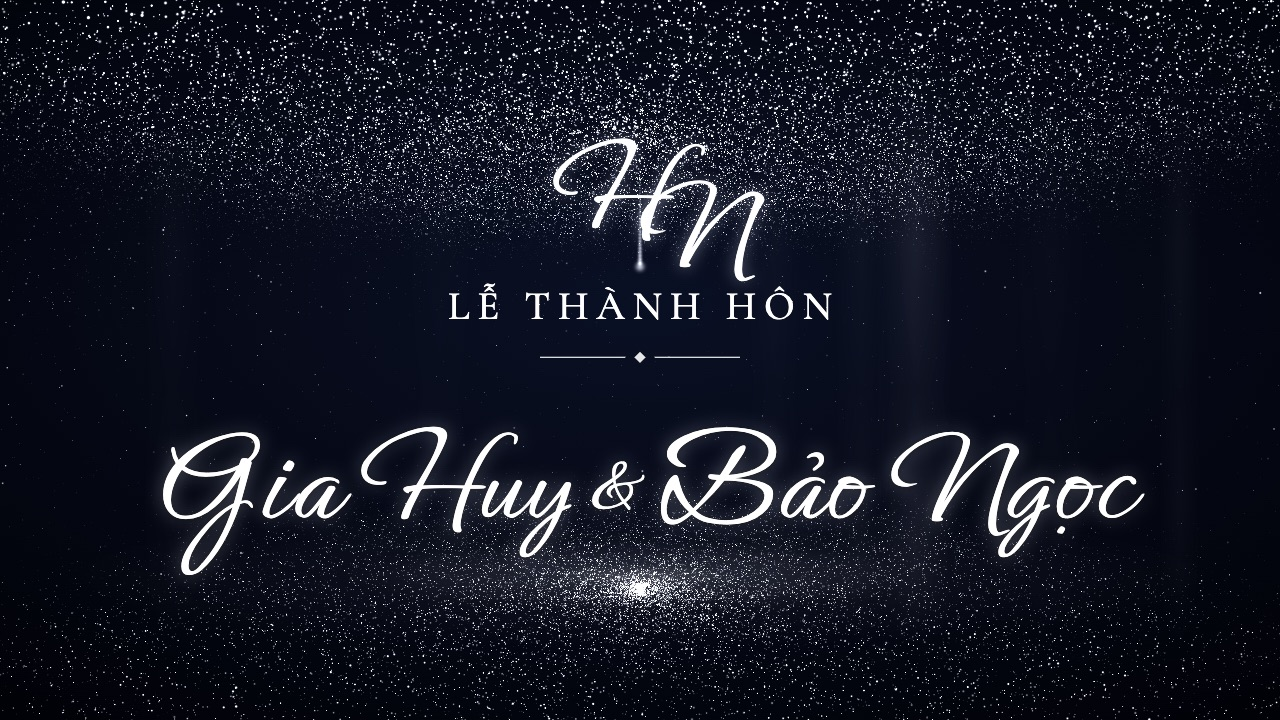
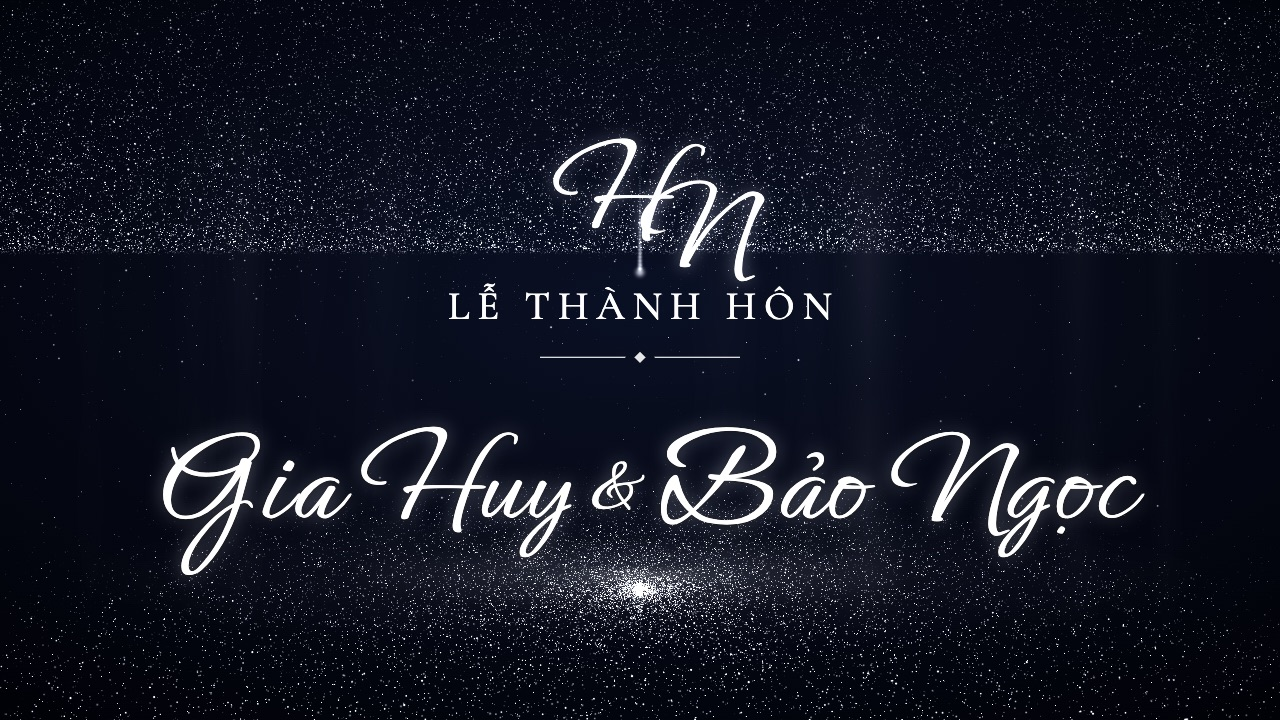
Màn LED "Đêm sao băng": dải kim tuyến trần phẳng như bản mẫu — mép dưới thẳng ngang, hạt dày và sáng ở mép rồi thưa dần lên trên (không còn là đĩa nhìn nghiêng nên hết cong); sàn giữ dạng đĩa hơi cong

diff --git a/public/led/led.js b/public/led/led.js
@@ -620,6 +620,8 @@
     gl: null, cv: null, time: 0, rip: [], heroes: [], sparks: [], nextDrop: 0,
     VS_PTS: 'attribute vec4 aP;uniform float uT,uAsp,uPx;uniform vec3 uRip[8];uniform vec4 uRp;uniform vec3 uCen;uniform vec2 uSt;uniform vec3 uXf;uniform float uCeil;varying float vA;' +
       'void main(){float seed=aP.z;float tw=pow(0.5+0.5*sin(uT*(1.2+seed*3.7)+seed*61.0),3.0);' +
+      'if(aP.w>4.5){gl_Position=vec4(aP.xy,0.0,1.0);float e=aP.y-0.3;float big=step(0.97,fract(seed*29.0));' +
+      'gl_PointSize=uPx*(1.4+2.6*fract(seed*7.3)+big*3.0);vA=(0.4+0.9*tw)*(0.45+1.3*exp(-e*3.0)+big*0.5)*smoothstep(-0.01,0.02,e);return;}' +
       'if(aP.w>2.5){vec2 q=vec2(uXf.x*aP.x+uXf.y*aP.y,-uXf.y*aP.x+uXf.x*aP.y)/uXf.z;gl_Position=vec4(q.x/uAsp,q.y,0.0,1.0);float dust=step(3.5,aP.w);float bg=step(0.975,fract(seed*29.0))*(1.0-dust);' +
       'gl_PointSize=uPx*(mix(2.0,1.5,dust)+mix(3.0,2.0,dust)*fract(seed*7.3)+bg*4.5);vA=(0.3+0.7*tw)*(0.7+0.6*fract(seed*3.1)+bg*0.6)*mix(1.0,0.75,dust);return;}' +
       'if(aP.w>1.5){gl_Position=vec4(aP.xy,0.0,1.0);float big=step(0.965,fract(seed*29.0));gl_PointSize=uPx*(1.3+2.2*fract(seed*7.3)+big*3.5);vA=(0.18+0.82*tw)*(0.55+0.45*fract(seed*3.1)+big*0.5);return;}' +
@@ -706,7 +708,9 @@
         if (this.mode === 'saoroi') { disc(Math.round(15000 * dens), 0, 2.0, 0.8); disc(Math.round(8000 * dens), 0, 3.0); } // Sao rơi: sàn là một đĩa kim tuyến gọn, dày ở tâm
         else if (this.mode === 'saobang') { disc(Math.round(20000 * dens), 0, 2.2, 1.25); disc(Math.round(10000 * dens), 0, 3.0); } // Đêm sao băng: sàn dồn sáng ở tâm
         else disc(Math.round(34000 * dens), 0, 3.0);
-        disc(Math.round((this.mode === 'saoroi' ? 16000 : this.mode === 'saobang' ? 42000 : 24000) * dens), 1, this.mode === 'saobang' ? 3.4 : 3.0); // trần (Đêm sao băng: dải trần dày, sáng)
+        if (this.mode === 'saobang') { // dải trần phẳng: mép dưới thẳng ngang (y = 0.3), hạt dày ở mép rồi thưa dần lên trên
+          for (i = 0; i < Math.round(30000 * dens); i++) a.push(rnd(-1.02, 1.02), 0.3 + Math.pow(Math.random(), 1.7) * 0.75 - Math.random() * 0.012, Math.random(), 5);
+        } else disc(Math.round((this.mode === 'saoroi' ? 16000 : 24000) * dens), 1, 3.0); // trần (Đêm sao băng: dải trần dày, sáng)
         for (i = 0; i < Math.round(2600 * dens); i++) a.push(rnd(-1, 1), rnd(-1, 1), Math.random(), 2); // sao rải khắp trời
         for (i = 0; i < Math.round(2600 * dens); i++) { // dải ngân hà: sao dồn quanh một đường chéo qua nửa trên màn
           var mx = rnd(-1.1, 1.1), my = 0.5 + mx * 0.22 + (Math.random() + Math.random() + Math.random() - 1.5) * 0.3;
